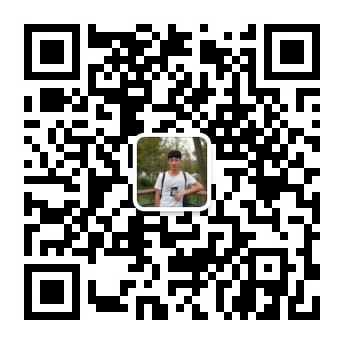
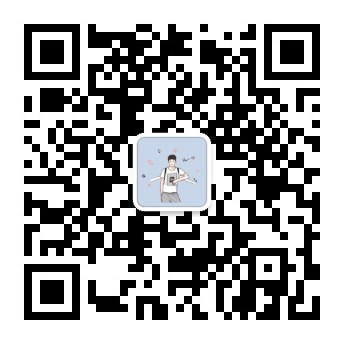
modify comfig msg

Changed region(s): [[0.3779, 0.3779, 0.6105, 0.6105]]

diff --git a/about.md b/about.md
@@ -3,16 +3,15 @@ title: About me
 ---
 
 ## About me
-我目前是一名普通大学生，身上没有任何光环，只有一颗热爱技术，热爱写作，热爱行动和热爱分享的心，在这里我会一直坚持原创技术，只说真话！
+厦门大学控制工程研究生，热爱技术，写作，行动和分享，在这里我会一直坚持原创技术，只说真话！
 
 ## 联系我
-- 微博：@cdeveloper
-- 间书：cdeveloper
-- 知乎：cdeveloper
-- 个人主页：[cdeveloper.cn](http://cdeveloper.cn)
-- GitHub：[https://github.com/cdevelopr](https://github.com/cdevelopr)
-- 微信号：cdeveloperv
-- 微信公众号：「cdeveloper」
+- 微博：@dlonngzZ
+- 知乎：dlonng
+- 个人主页：[dlonng.com](http://dlonng.com)
+- GitHub：[https://github.com/dlonng](https://github.com/dlonng)
+- 微信号：DLonngv
+- 微信公众号：「程序小哥」
 
 <div  align="center">
-<img src="http://cdeveloper.cn/images/wechart.jpg" width = "200" height = "200"/>
+<img src="http://dlonng.com/images/wechart.jpg" width = "200" height = "200"/>
